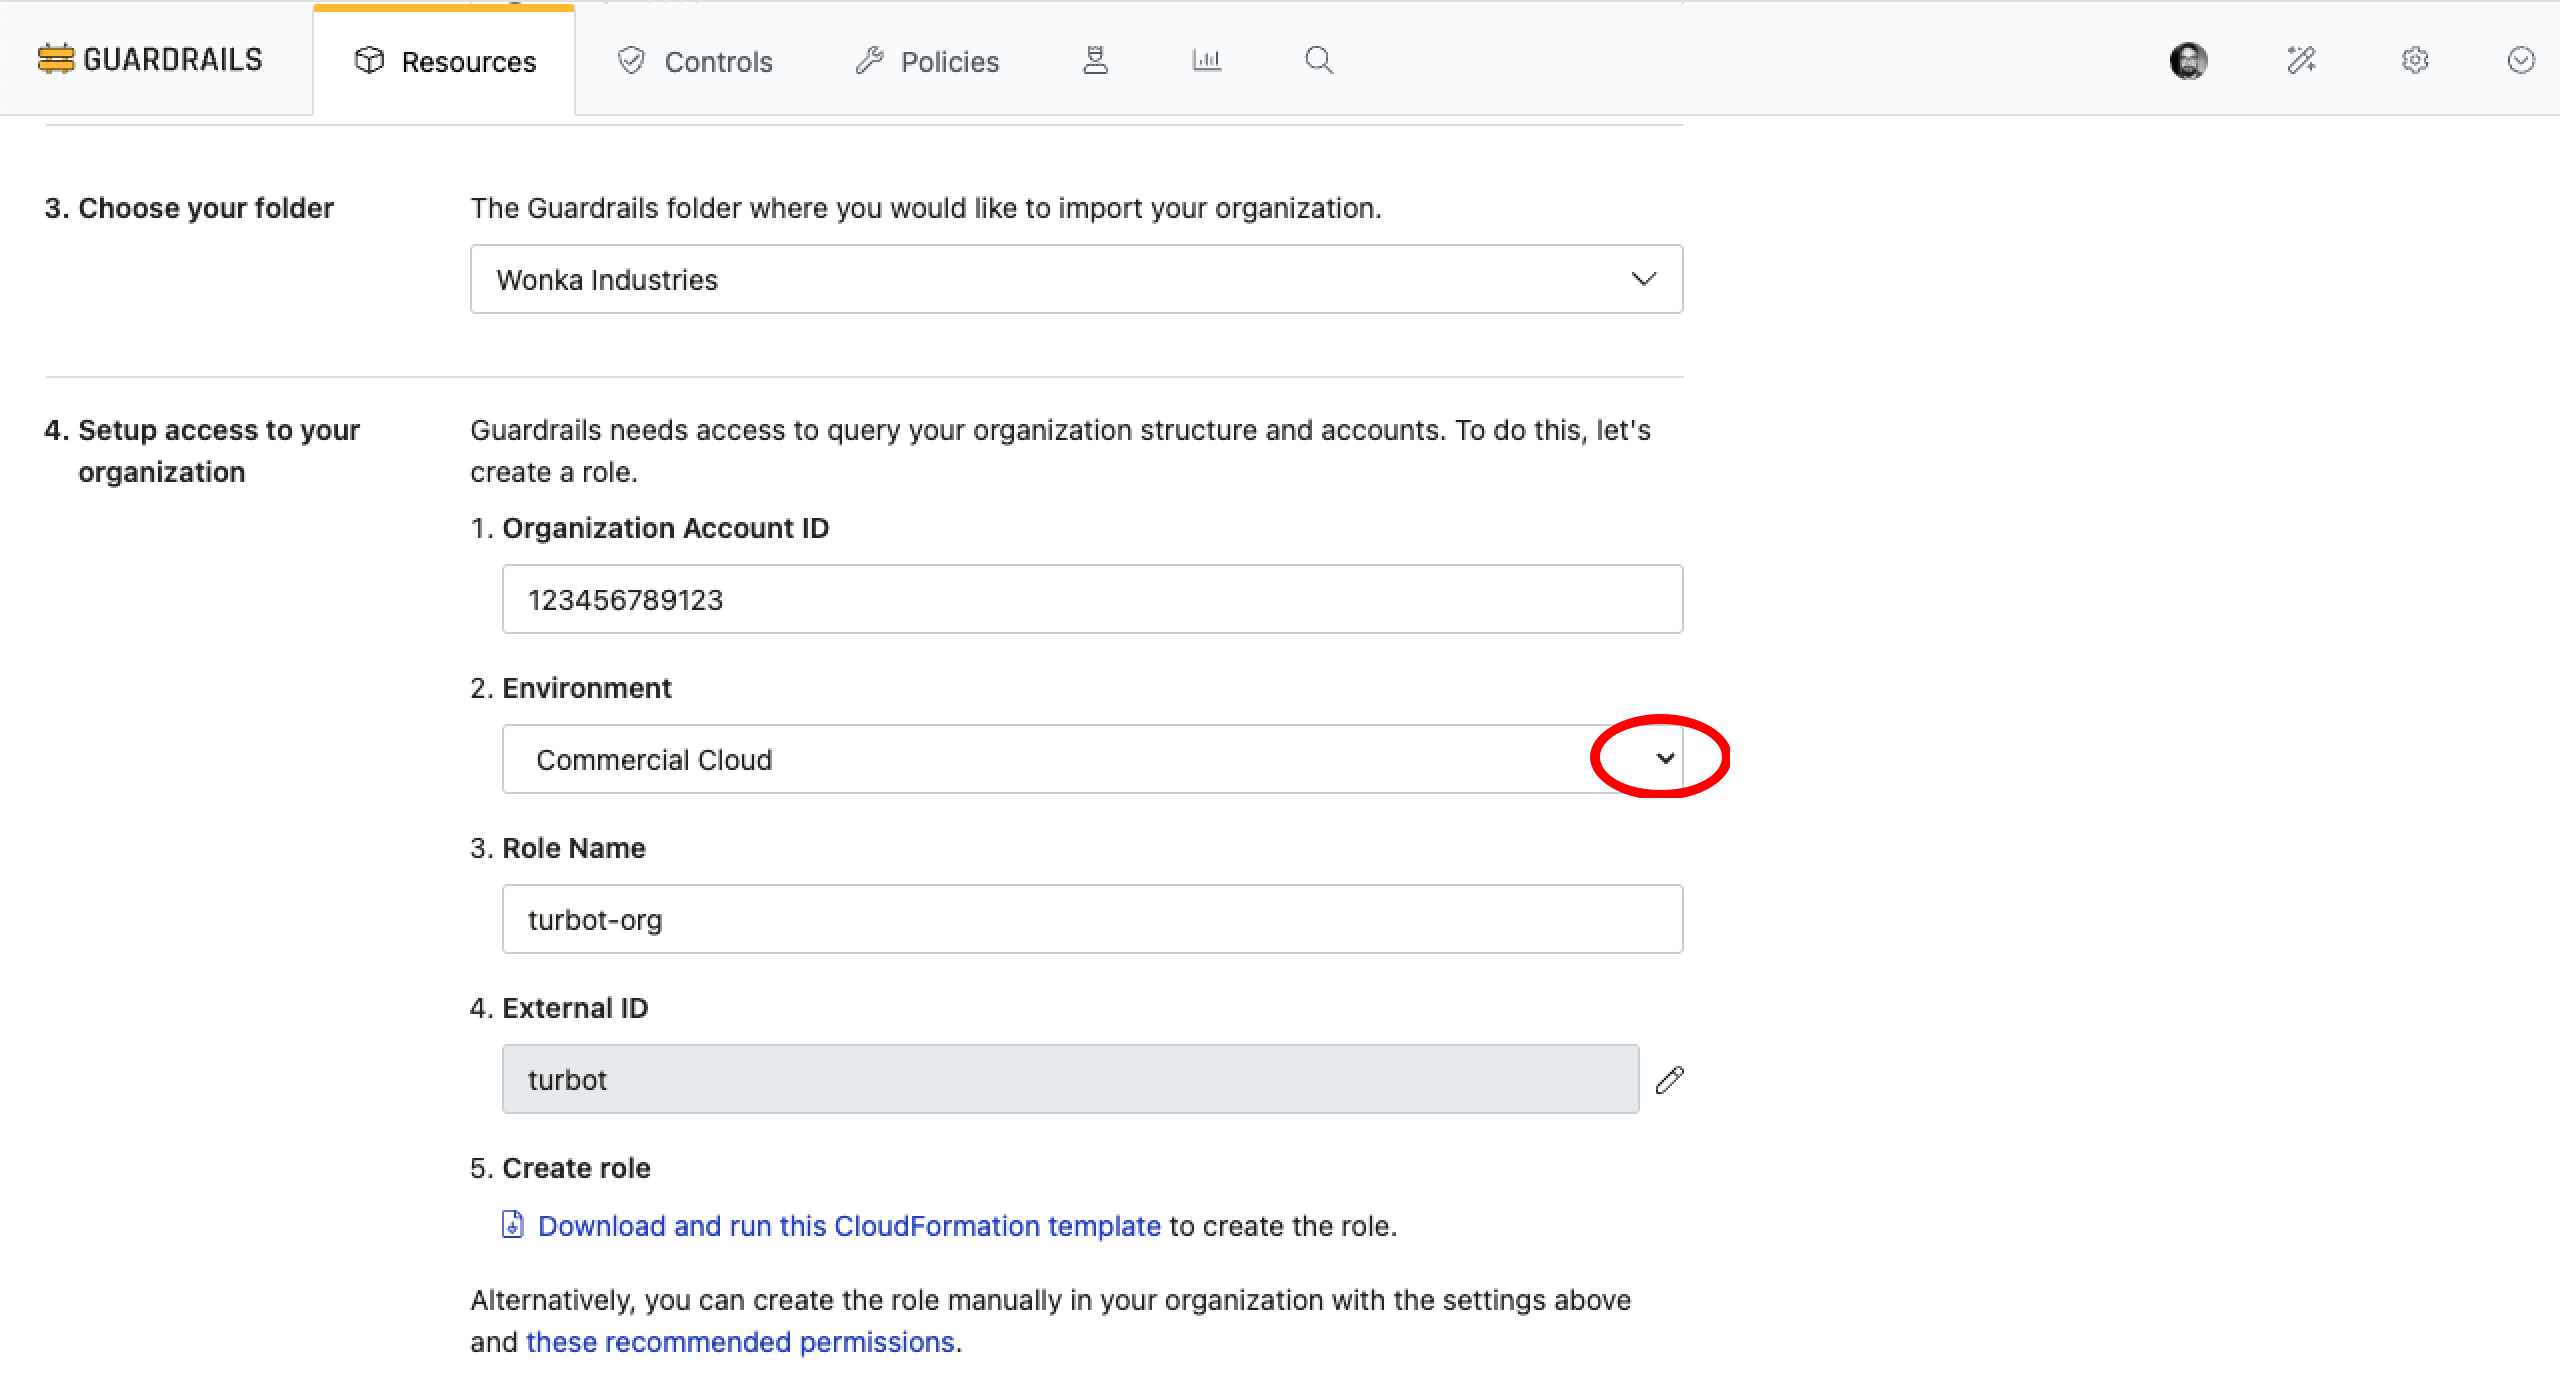
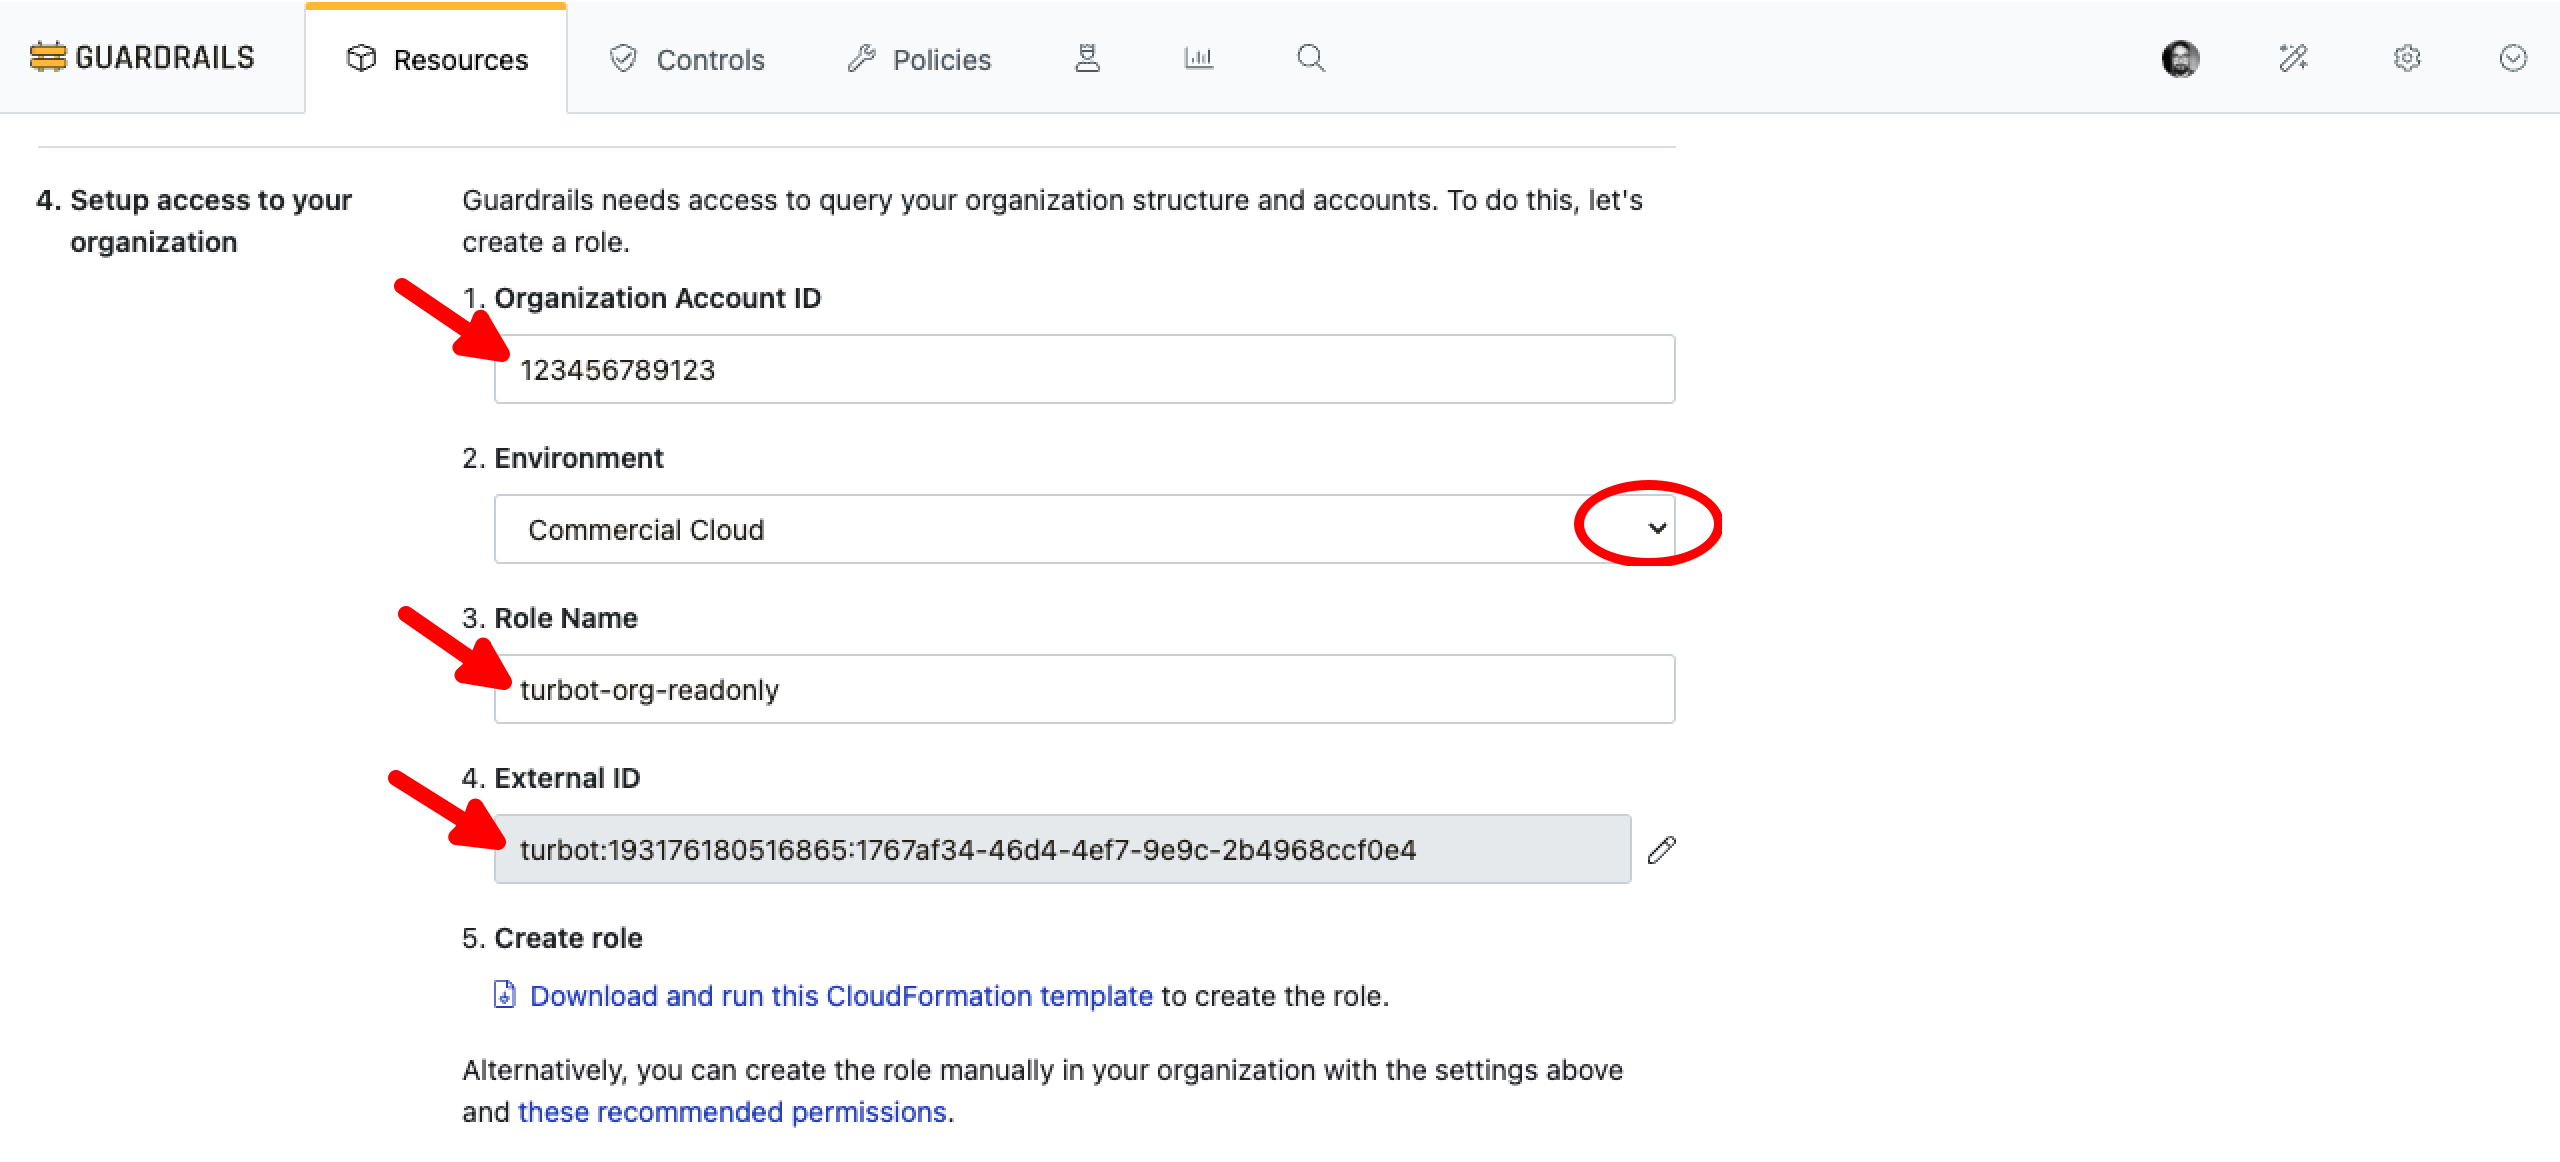
Updates

diff --git a/docs/guides/aws/import-aws-organization/index.md b/docs/guides/aws/import-aws-organization/index.md
@@ -49,7 +49,7 @@ Installation of additional mods will depend on your organization's control objec
 
 Follow the steps in [Install a Mod](/guides/configuring-guardrails/install-mod#install-mod-via-guardrails-console) to install mods via the Guardrails console.
 
-## Step 3: Get AWS Organization Management Account ID
+## Step 3: Get AWS Management Account or Delegated Account ID
 
 Account ID of the management account or a [delegated account with organization permissions](https://docs.aws.amazon.com/organizations/latest/userguide/orgs_delegate_policies.html) is mandatory for organization import. To obtain the account ID, you can either:
 
@@ -110,18 +110,20 @@ The permissions you grant to the Guardrails IAM role depend on your use case(s).
 
 Now as next steps:
 
-- Provide your `Organization Account ID` (obtained in Step 3).
+- Provide your `Organization Account ID` (Obtained in Step 3).
 - Select the `Environment`.
 - Enter the IAM `Role Name`.
 - Provide `External ID`.
 
-![Setup Organization Access](/images/docs/guardrails/guides/aws/import-aws-organization/setup-organization-access.png)
-
 > [!NOTE]
 > Other supported AWS Environments include `Commercial Cloud`, `US Government`, and `China Cloud`.
-> Give the role a meaningful name, such as `turbot-service-readonly` (read-only) or `turbot-service-superuser` (full access), along with an appropriate description.
 
-Proceed to create the IAM Role in the organization management account.
+> Give the role a meaningful name along with an appropriate description.
+
+![Setup Organization Access](/images/docs/guardrails/guides/aws/import-aws-organization/setup-organization-access.png)
+
+
+Proceed to create the IAM Role in the organization management or delegated account.
 
 ## Step 7: Create IAM Role in Management Account or Delegated Account
 
@@ -129,10 +131,9 @@ You can create the IAM role beforehand or during the importing process in the Gu
 
 To create the IAM role:
 
-- Download the CloudFormation template file, which will be updated with the two values you provided (i.e., `Role Name` and `External ID`) in previous [Step 6](#step-6-setup-access-to-your-organization-management-account).
+- Download the CloudFormation template file, which will be updated with the two values you provided (i.e., `Role Name` and `External ID`) in previous Step 6.
 
 ![Download Organization CFN Template](/images/docs/guardrails/guides/aws/import-aws-organization/download-management-account-iam-role-cfn-template.png)
-
 
 <details>
   <summary>Reference to downloaded CloudFormation Template with ReadOnlyAccess</summary>
@@ -161,11 +162,11 @@ Metadata:
 Parameters:
   AccessRoleName:
     Type: String
-    Default: turbot_guardrails
+    Default: turbot-org-readonly
     Description: The role that Turbot uses to connect to this account
   AccessRoleExternalId:
     Type: String
-    Default: turbot:317452734766081:363bd25d-c8e0-4524-b54e-97fbd37643fa
+    Default: turbot:193176180516865:1767af34-46d4-4ef7-9e9c-2b4968ccf0e4
     Description: The AWS External ID to add to the trust policy of the Turbot role
   GuardrailsIamPath:
     Type: String
